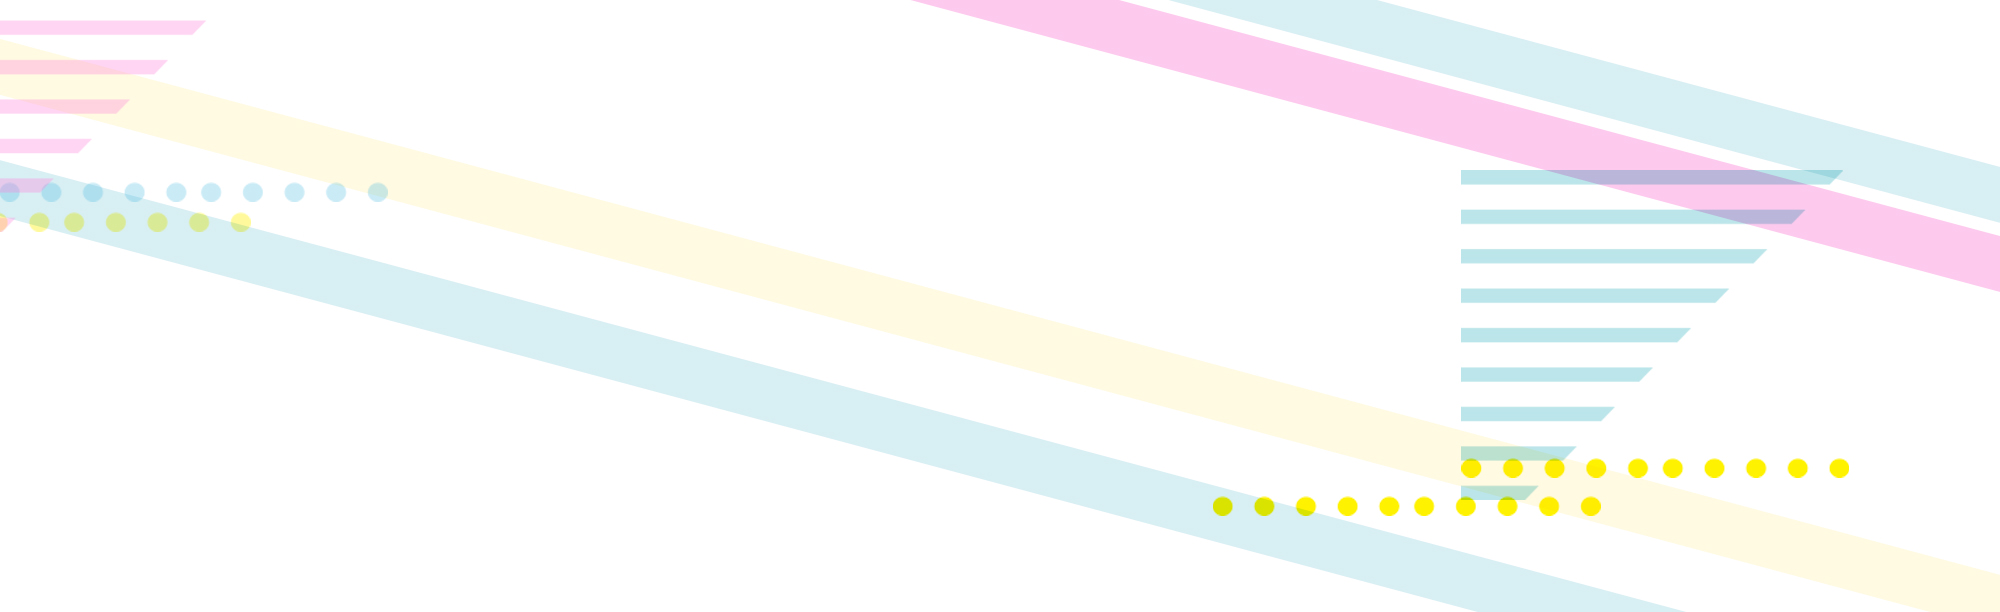
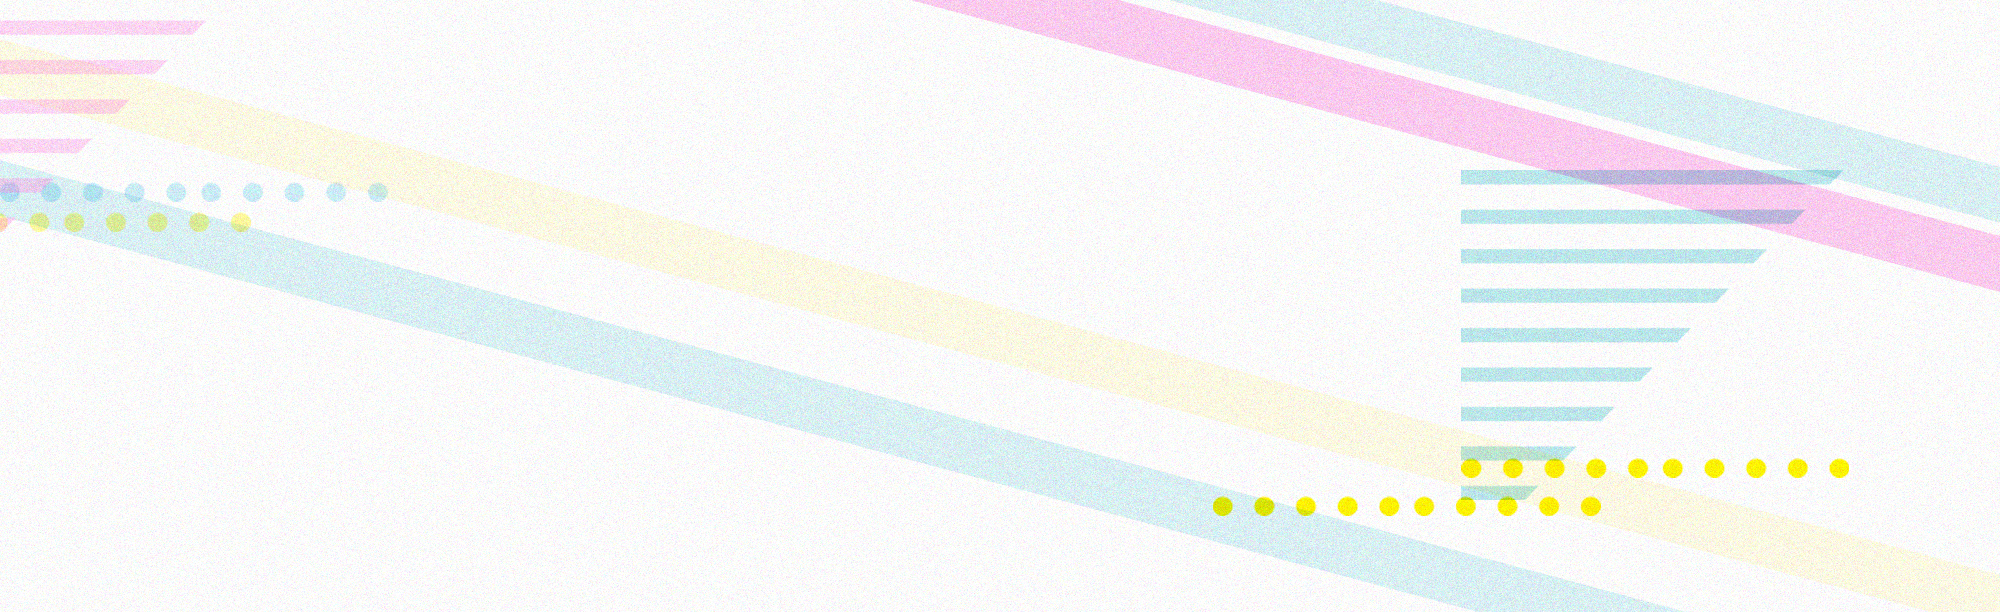
noise and opacity

diff --git a/src/@staticfuse/gatsby-theme-publisher/templates/home/index.js b/src/@staticfuse/gatsby-theme-publisher/templates/home/index.js
@@ -31,7 +31,7 @@ const Home = ({ location }) => {
       <Box bg="gray.800" borderBottom="1px solid #F5EF09" mb={4}>
         <BackgroundImage
           fluid={bgImage.file.childImageSharp.fluid}
-          style={{ padding: "2rem .5rem", backgroundPosition: "top right" }}
+          style={{ padding: "2rem 1rem", backgroundPosition: "top right" }}
         >
           <Box
             m="auto"
@@ -42,7 +42,7 @@ const Home = ({ location }) => {
           >
 
             <Box w={["100%", "60%", "45%"]} float={["none", "none", "right"]} p={2} m="auto" order={["1","1","2"]}>
-                <Image src={LogosImage} display="block" alt="WordPress and Gatsby Logos" />
+                <Image src={LogosImage} display="block" alt="WordPress and Gatsby Logos" opacity=".8" />
             </Box>
             
             <Box w={["100%", "100%", "55%"]} color="#fff" mb={[6,6,"0"]}>
@@ -50,7 +50,7 @@ const Home = ({ location }) => {
               <Heading
                 as="h1"
                 fontWeight="600"
-                fontSize={["2rem","4rem"]}
+                fontSize={["3.5rem","4rem"]}
                 color="primary"
                 lineHeight="1.1"
               >
